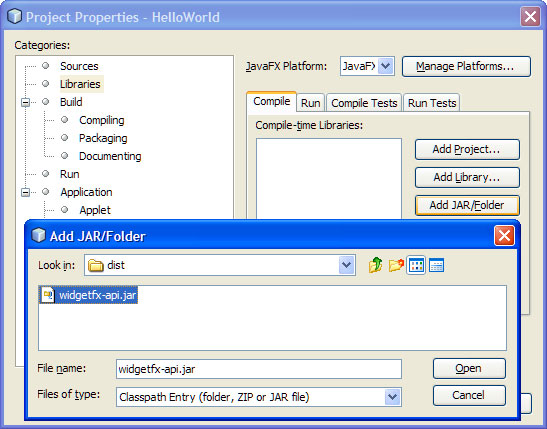
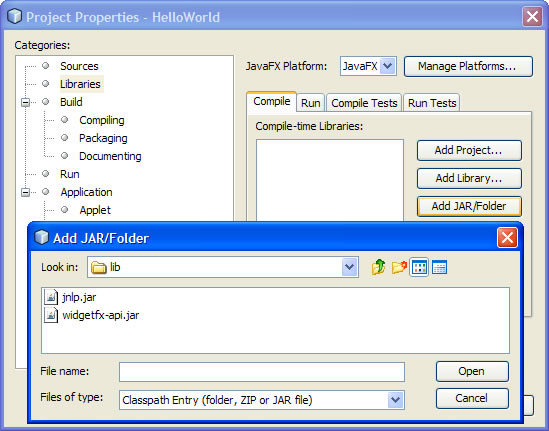
Updated the tutorial to include the jnlp.jar file and some extra screenshots.

diff --git a/site/tutorial/HelloWorldTutorial.html b/site/tutorial/HelloWorldTutorial.html
@@ -54,9 +54,9 @@
 <p>In the second page of the wizard, choose a name for the project (&quot;HelloWorld&quot; might be nice), and select options as shown in the picture:</p>
 <p><img src="newproject2.jpg" alt="Project Wizard Page 2" width="547" height="472" /></p>
 <p>Click Finish to create your HelloWorld project.</p>
-<p>We also need to add in  the widgetfx-api.jar file to the project for widget development. This can be found as part of the Widget SDK bundle.</p>
-<p>Open the Project Properties dialog by selecting 'HelloWorld' Properties from the File menu. Click on the Libraries category and add widgetfx-api.jar by clicking the Add JAR/Folder button as shown in the following screenshot:</p>
-<p><img src="projectproperties-addlibrary.jpg" alt="Add Library" width="547" height="429" /></p>
+<p>We also need to add in  the widgetfx-api.jar and jnlp.jar files to the project for widget development. This can be found as part of the Widget SDK bundle.</p>
+<p>Open the Project Properties dialog by selecting 'HelloWorld' Properties from the File menu. Click on the Libraries category and add widgetfx-api.jar and jnlp.jar by clicking the Add JAR/Folder button as shown in the following screenshot:</p>
+<p><img src="projectproperties-addlibrary.jpg" alt="Add Library" width="549" height="431" /></p>
 <h2>Coding the HelloWorld Widget</h2>
 <p>First, add a new empty JavaFX file to the project. It should be named &quot;HelloWorld&quot; and placed in the &quot;tutorial&quot; package.</p>
 <p><img src="createjavafxclass.jpg" alt="Create JavaFX Class" width="547" height="329" /></p>
@@ -82,8 +82,9 @@
 <p>To run the HelloWorld widget in the WidgetFX doc, you need to turn on Web Start in the run configuration. To do this, open the Project Properties dialog and go to the WebStart tab. On this tab check Enable Web Start as shown in the following picture:</p>
 <p><img src="enable-webstart.jpg" alt="Enable Web Start" width="653" height="348" /></p>
 <p>Next, go to the Run tab and select your main class (&quot;tutorial.HelloWorld&quot;) and enable &quot;Run with Java Web Start&quot; by clicking on the last checkbox.</p>
+<p><img src="configure-run.jpg" alt="Configure Run" /></p>
 <p>The final step is to Run the Main Project in Netbeans, which will automatically generate a JNLP file for you, start the WidgetFX dock, and deploy the widget in the dock. After this process is complete, you will see the following:</p>
-<p>xxxx</p>
+<p><img src="running-widget.jpg" alt="Running Widget" width="111" height="74" /></p>
 <p>Congratulations on completing your first WidgetFX project!</p>
 </body>
 
